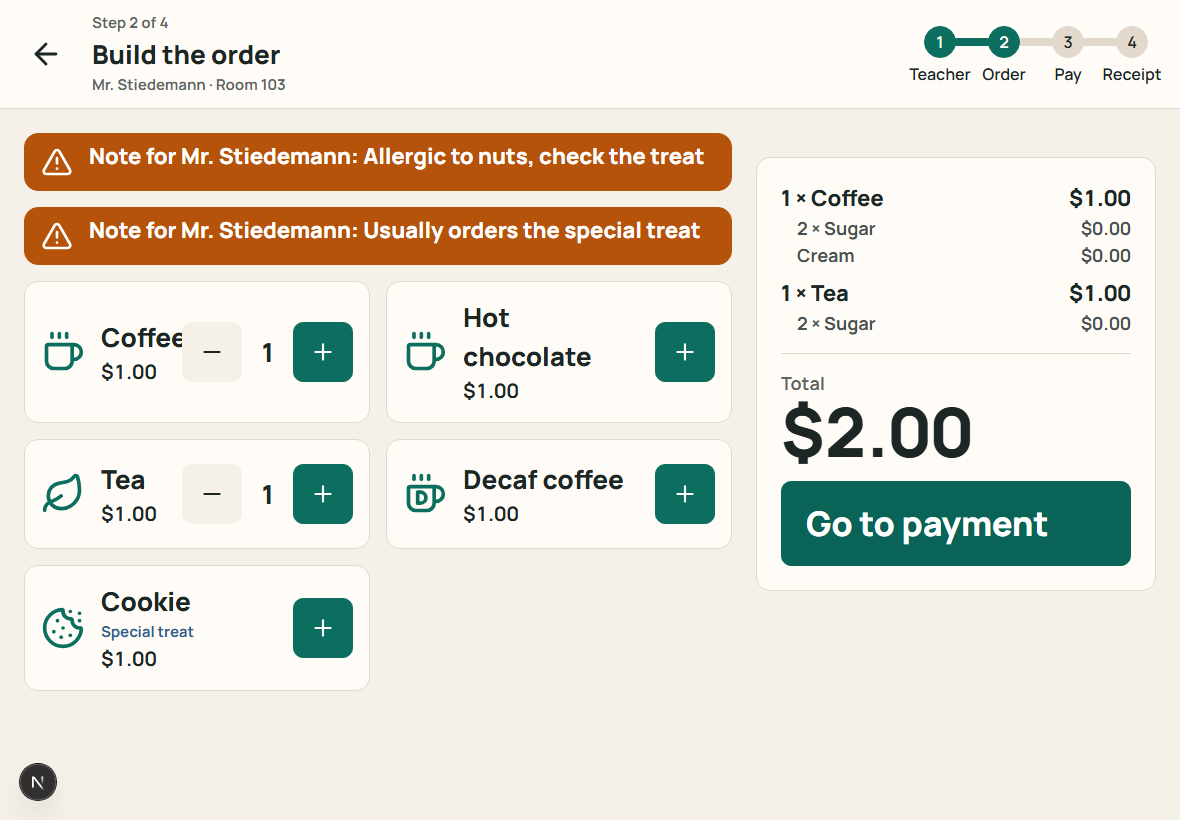
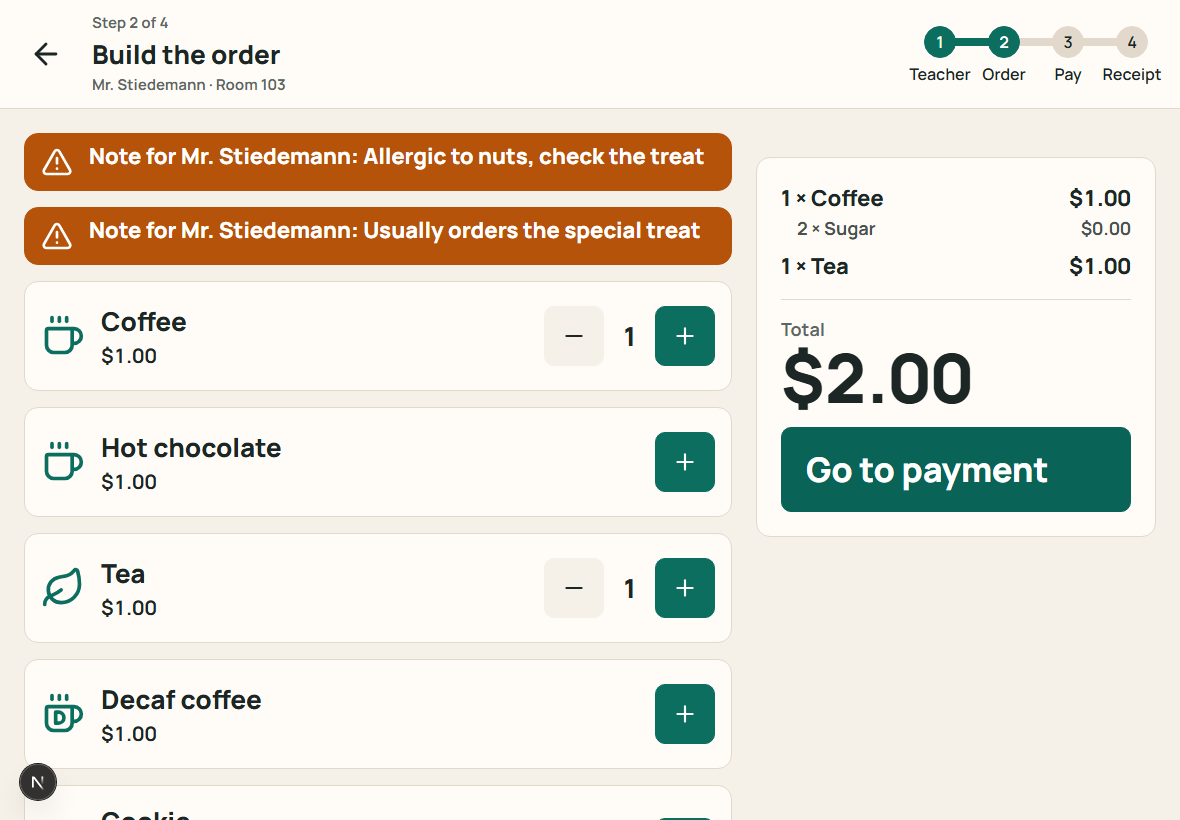
fix(4.20): menu names no longer clip behind the counter; a test pins the minus fix
- Menu rows are one column until xl, like the add-ons: at iPad landscape a
  two-column row hid "Coffee" behind its - 1 + counter.
- The shift test now removes one coffee of two and checks the one with two
  sugars stays. It fails on the old minus, which emptied every coffee line.

diff --git a/tests/e2e/shift.spec.ts b/tests/e2e/shift.spec.ts
@@ -59,6 +59,17 @@ test("a student works a whole shift", async ({ page }) => {
     // Back to the menu for a second coffee with nothing in it.
     await page.getByRole("button", { name: "Add another item" }).click();
     await page.getByRole("button", { name: /Add one Coffee$/i }).first().click();
+    await page.getByRole("button", { name: "Add another item" }).click();
+
+    // Minus takes away the latest coffee only; the one with two sugars stays.
+    // It used to take one from every coffee line, emptying both.
+    const coffee = page.locator("div.rounded-box", { has: page.getByRole("button", { name: /Add one Coffee$/i }) }).first();
+    await expect(coffee.getByText("2", { exact: true })).toBeVisible();
+    await page.getByRole("button", { name: /Remove one Coffee$/i }).first().click();
+    await expect(coffee.getByText("1", { exact: true })).toBeVisible();
+    await expect(page.getByText("2 × Sugar")).toBeVisible();
+
+    await page.getByRole("button", { name: /Add one Coffee$/i }).first().click();
     await page.getByRole("button", { name: /Go to payment/i }).click();
 
     // The teacher hands over a five. Three dollars back, and the hint has to

diff --git a/src/app/(student)/shift/order/order-flow.tsx b/src/app/(student)/shift/order/order-flow.tsx
@@ -290,7 +290,8 @@ export function OrderFlow({
           <div className="flex min-w-0 flex-col gap-4">
             {notes}
 
-            <div className="grid grid-cols-1 gap-4 lg:grid-cols-2">
+            {/* One column until xl: a name like Coffee needs the room beside − 1 +. */}
+            <div className="grid grid-cols-1 gap-4 xl:grid-cols-2">
               {menu.map((item) => (
                 <CountRow
                   key={item.id}

diff --git a/docs/DESIGN.md b/docs/DESIGN.md
@@ -155,7 +155,7 @@ Breakpoints (Tailwind defaults): `<md` phone portrait (≤ 767), `md–lg` iPad 
 - <md: top bar keeps name + avatar only; steps become a single text line "Step 2 of 4 · Take orders"; `stats` remain one row (3 compact stats, 22px values); all five buttons stack full-width, 64px tall, icon-left; Clock out pinned to bottom with `mt-auto`.
 
 **Order builder**
-- lg+: `grid-cols-[1fr_400px]`; menu 2×2 tiles; order summary is a sticky right `aside` with total + Go to payment.
+- lg+: `grid-cols-[1fr_400px]`; menu rows one column until xl, then 2×2 tiles (at 1180px a two-column row clipped "Coffee" behind its − 1 + counter); order summary is a sticky right `aside` with total + Go to payment.
 - Add-ons (4.20): adding a drink opens its own Add-ons page, same frame. Each add-on is a row like a menu item (picture · name · price or "Free" · − count +), one column until xl so long names fit beside the counter. The `aside` lists the order with repeats counted ("2 × Sugar") and ends in Add another item (secondary) above Go to payment (the one primary).
 - md: same two columns with the aside at 340px; menu tiles become horizontal rows (icon · name · price · qty badge).
 - <md: single column. StepHeader compresses to back button + "Step 2 of 4 / Mrs. Smith · Rm 114"; NoteBanner stays directly under it (never hidden, never collapsed); menu = full-width 64px rows; order summary becomes a fixed bottom sheet (`bg-base-100`, top border) showing the item line, total at 52px and the 72px primary button. No horizontal scroll at any width.
